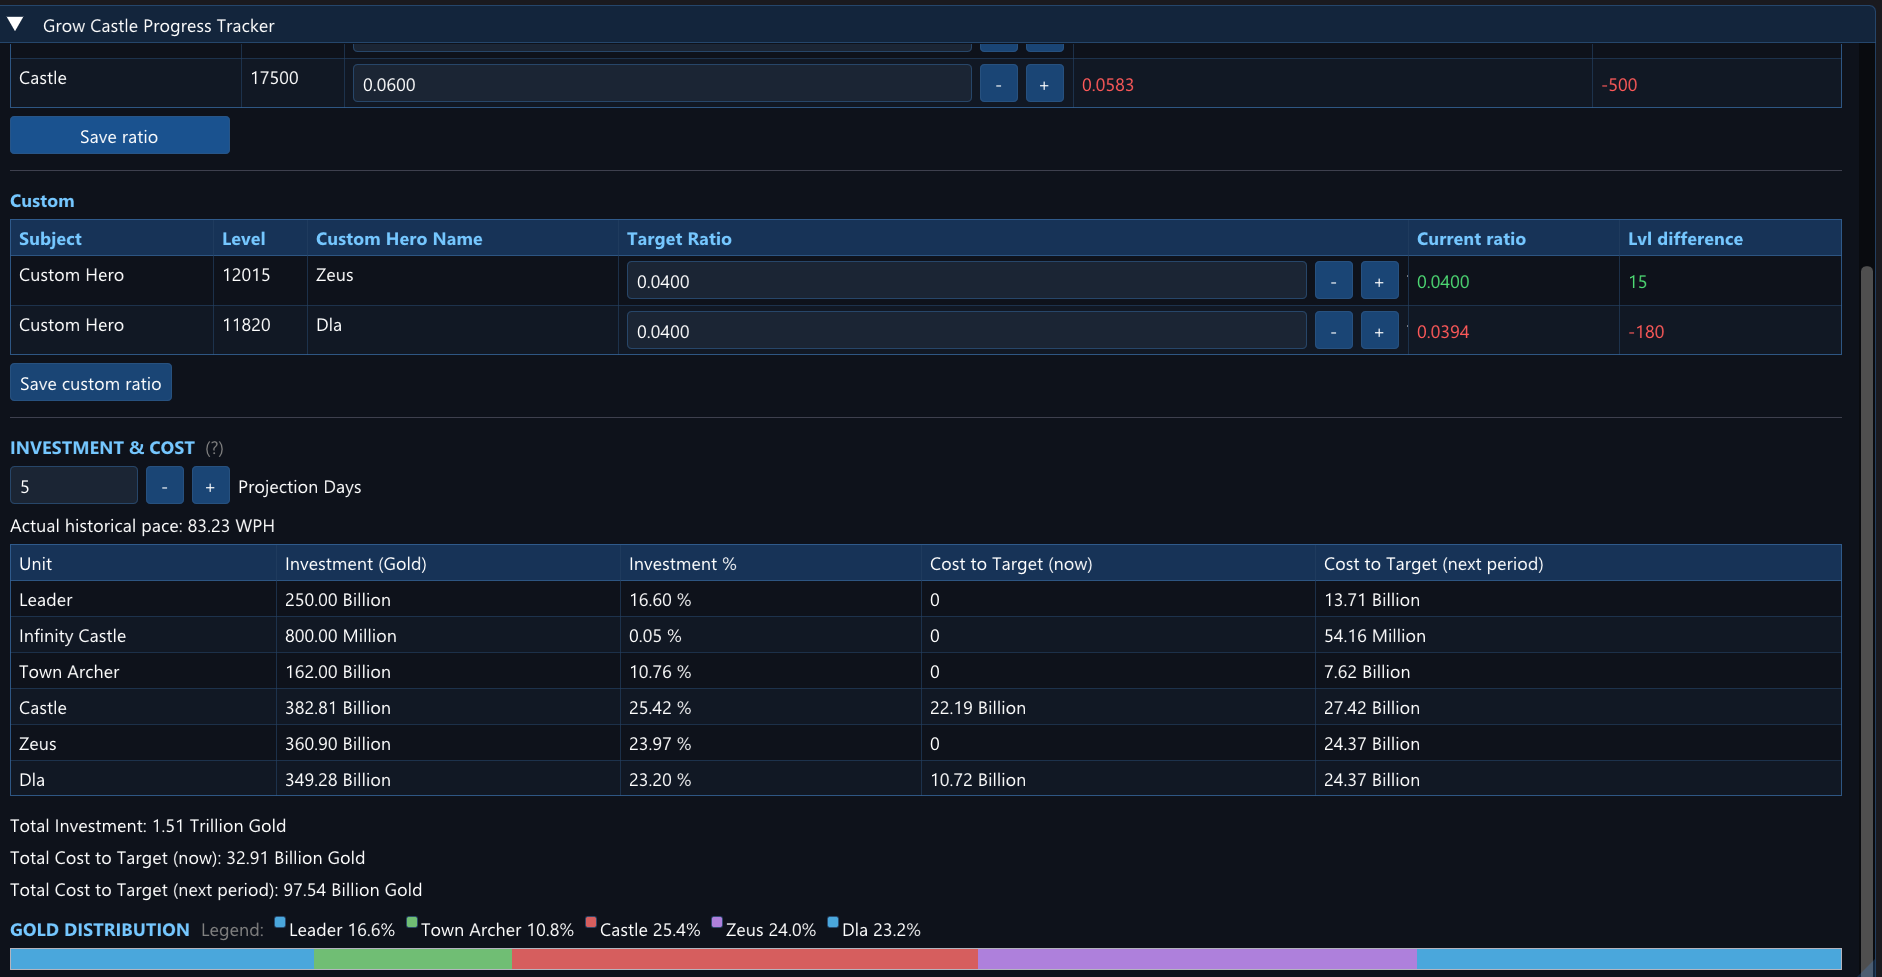
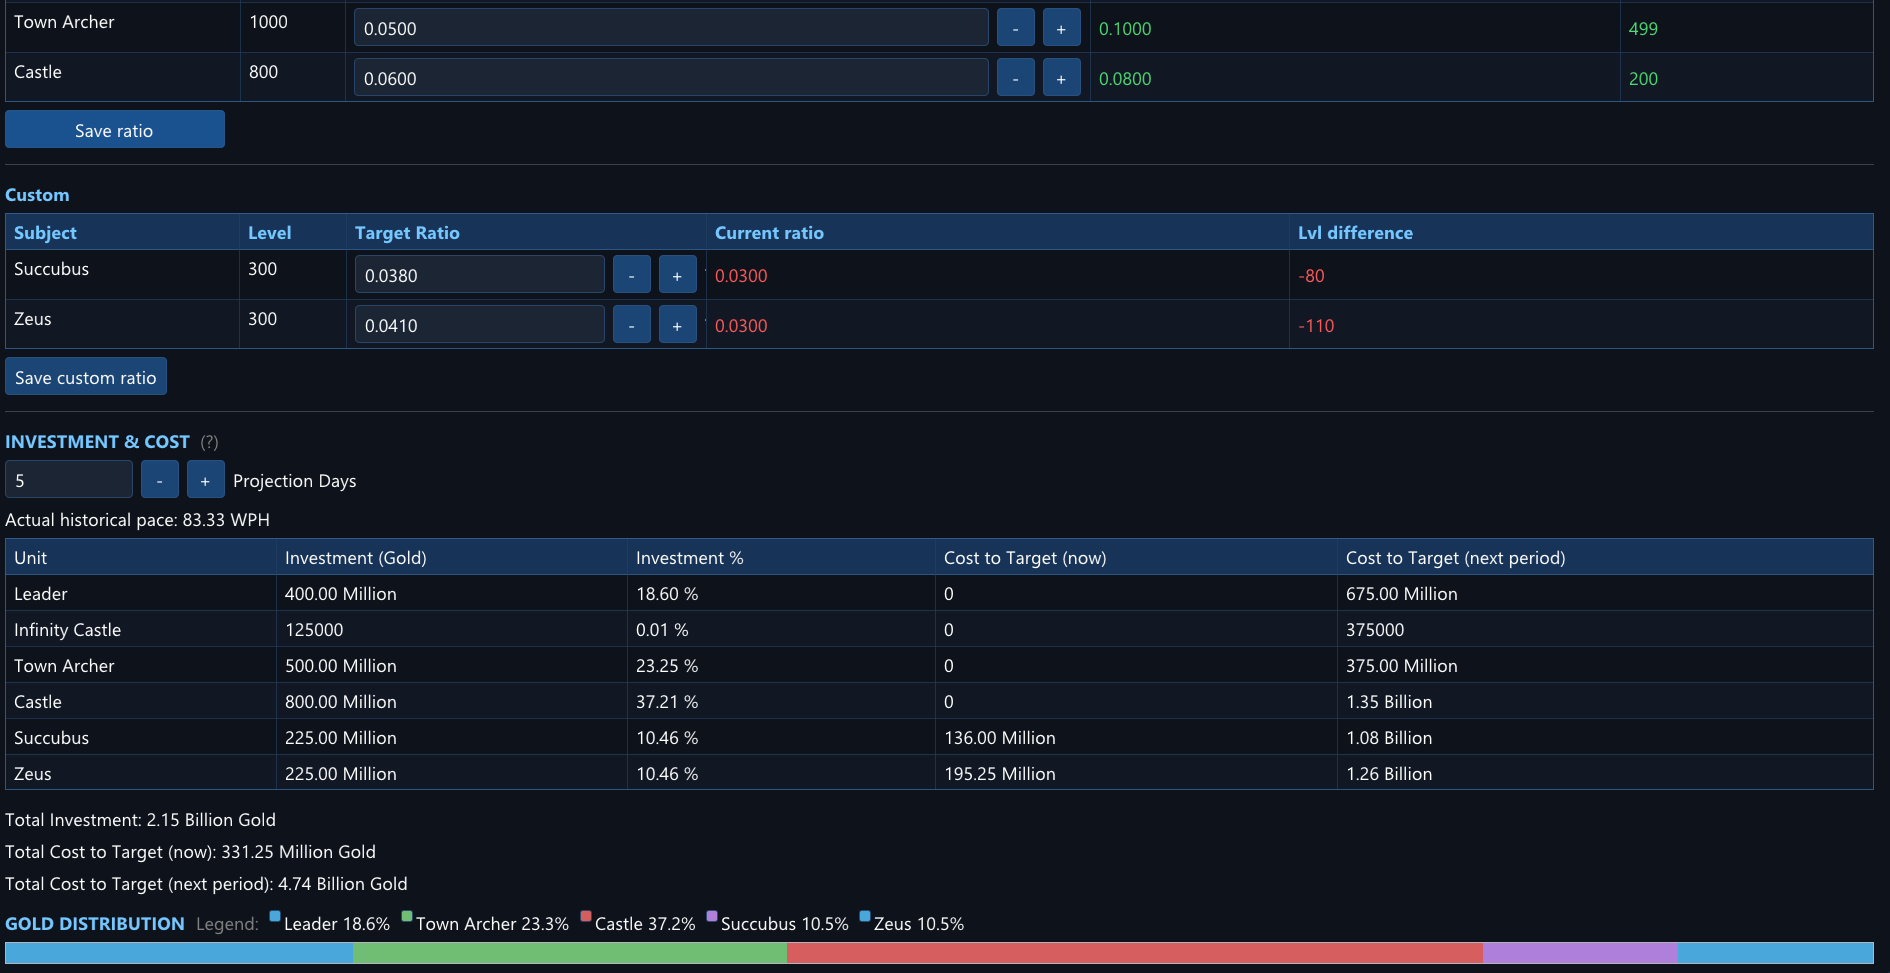
feat: release v4.0.0

Changed region(s): [[0.0, 0.0, 1.0, 1.0], [0.4623, 0.6475, 0.5547, 0.8325], [0.8321, 0.3392, 0.8937, 0.37]]

diff --git a/src/gui.cpp b/src/gui.cpp
@@ -884,10 +884,9 @@ static void DrawRatioSuggestionTab() {
     DrawSectionBreak();
     DrawSectionHeading("Custom");
     if (g_custom_hero_count > 0) {
-        if (ImGui::BeginTable("custom_ratio_table", 6, kRatioTableFlags)) {
+        if (ImGui::BeginTable("custom_ratio_table", 5, kRatioTableFlags)) {
             ImGui::TableSetupColumn("Subject");
             ImGui::TableSetupColumn("Level");
-            ImGui::TableSetupColumn("Custom Hero Name");
             ImGui::TableSetupColumn("Target Ratio");
             ImGui::TableSetupColumn("Current ratio");
             ImGui::TableSetupColumn("Lvl difference");
@@ -900,9 +899,8 @@ static void DrawRatioSuggestionTab() {
             for (int i = 0; i < g_custom_hero_count; ++i) {
                 CustomHero& hero = g_custom_heroes[i];
                 ImGui::TableNextRow();
-                ImGui::TableNextColumn(); ImGui::Text("Custom Hero");
-                ImGui::TableNextColumn(); ImGui::Text("%lld", hero.level);
                 ImGui::TableNextColumn(); ImGui::Text("%s", hero.name);
+                ImGui::TableNextColumn(); ImGui::Text("%lld", hero.level);
                 ImGui::TableNextColumn();
                 float current_ratio = (g_player.wave > 0) ? (float)((double)hero.level / (double)g_player.wave) : 0.0f;
                 ImGui::SetNextItemWidth(-1.0f);
@@ -1197,7 +1195,7 @@ static void DrawPaceAnalysisTab() {
     }
 
     ImGui::Spacing();
-    DrawSectionHeading("TAP HEROES");
+    DrawSectionHeading("TAB HEROES");
     bool ob = g_pace_inputs.ob != 0;
     bool mbf = g_pace_inputs.mbf != 0;
     if (ImGui::Checkbox("OB", &ob)) {
